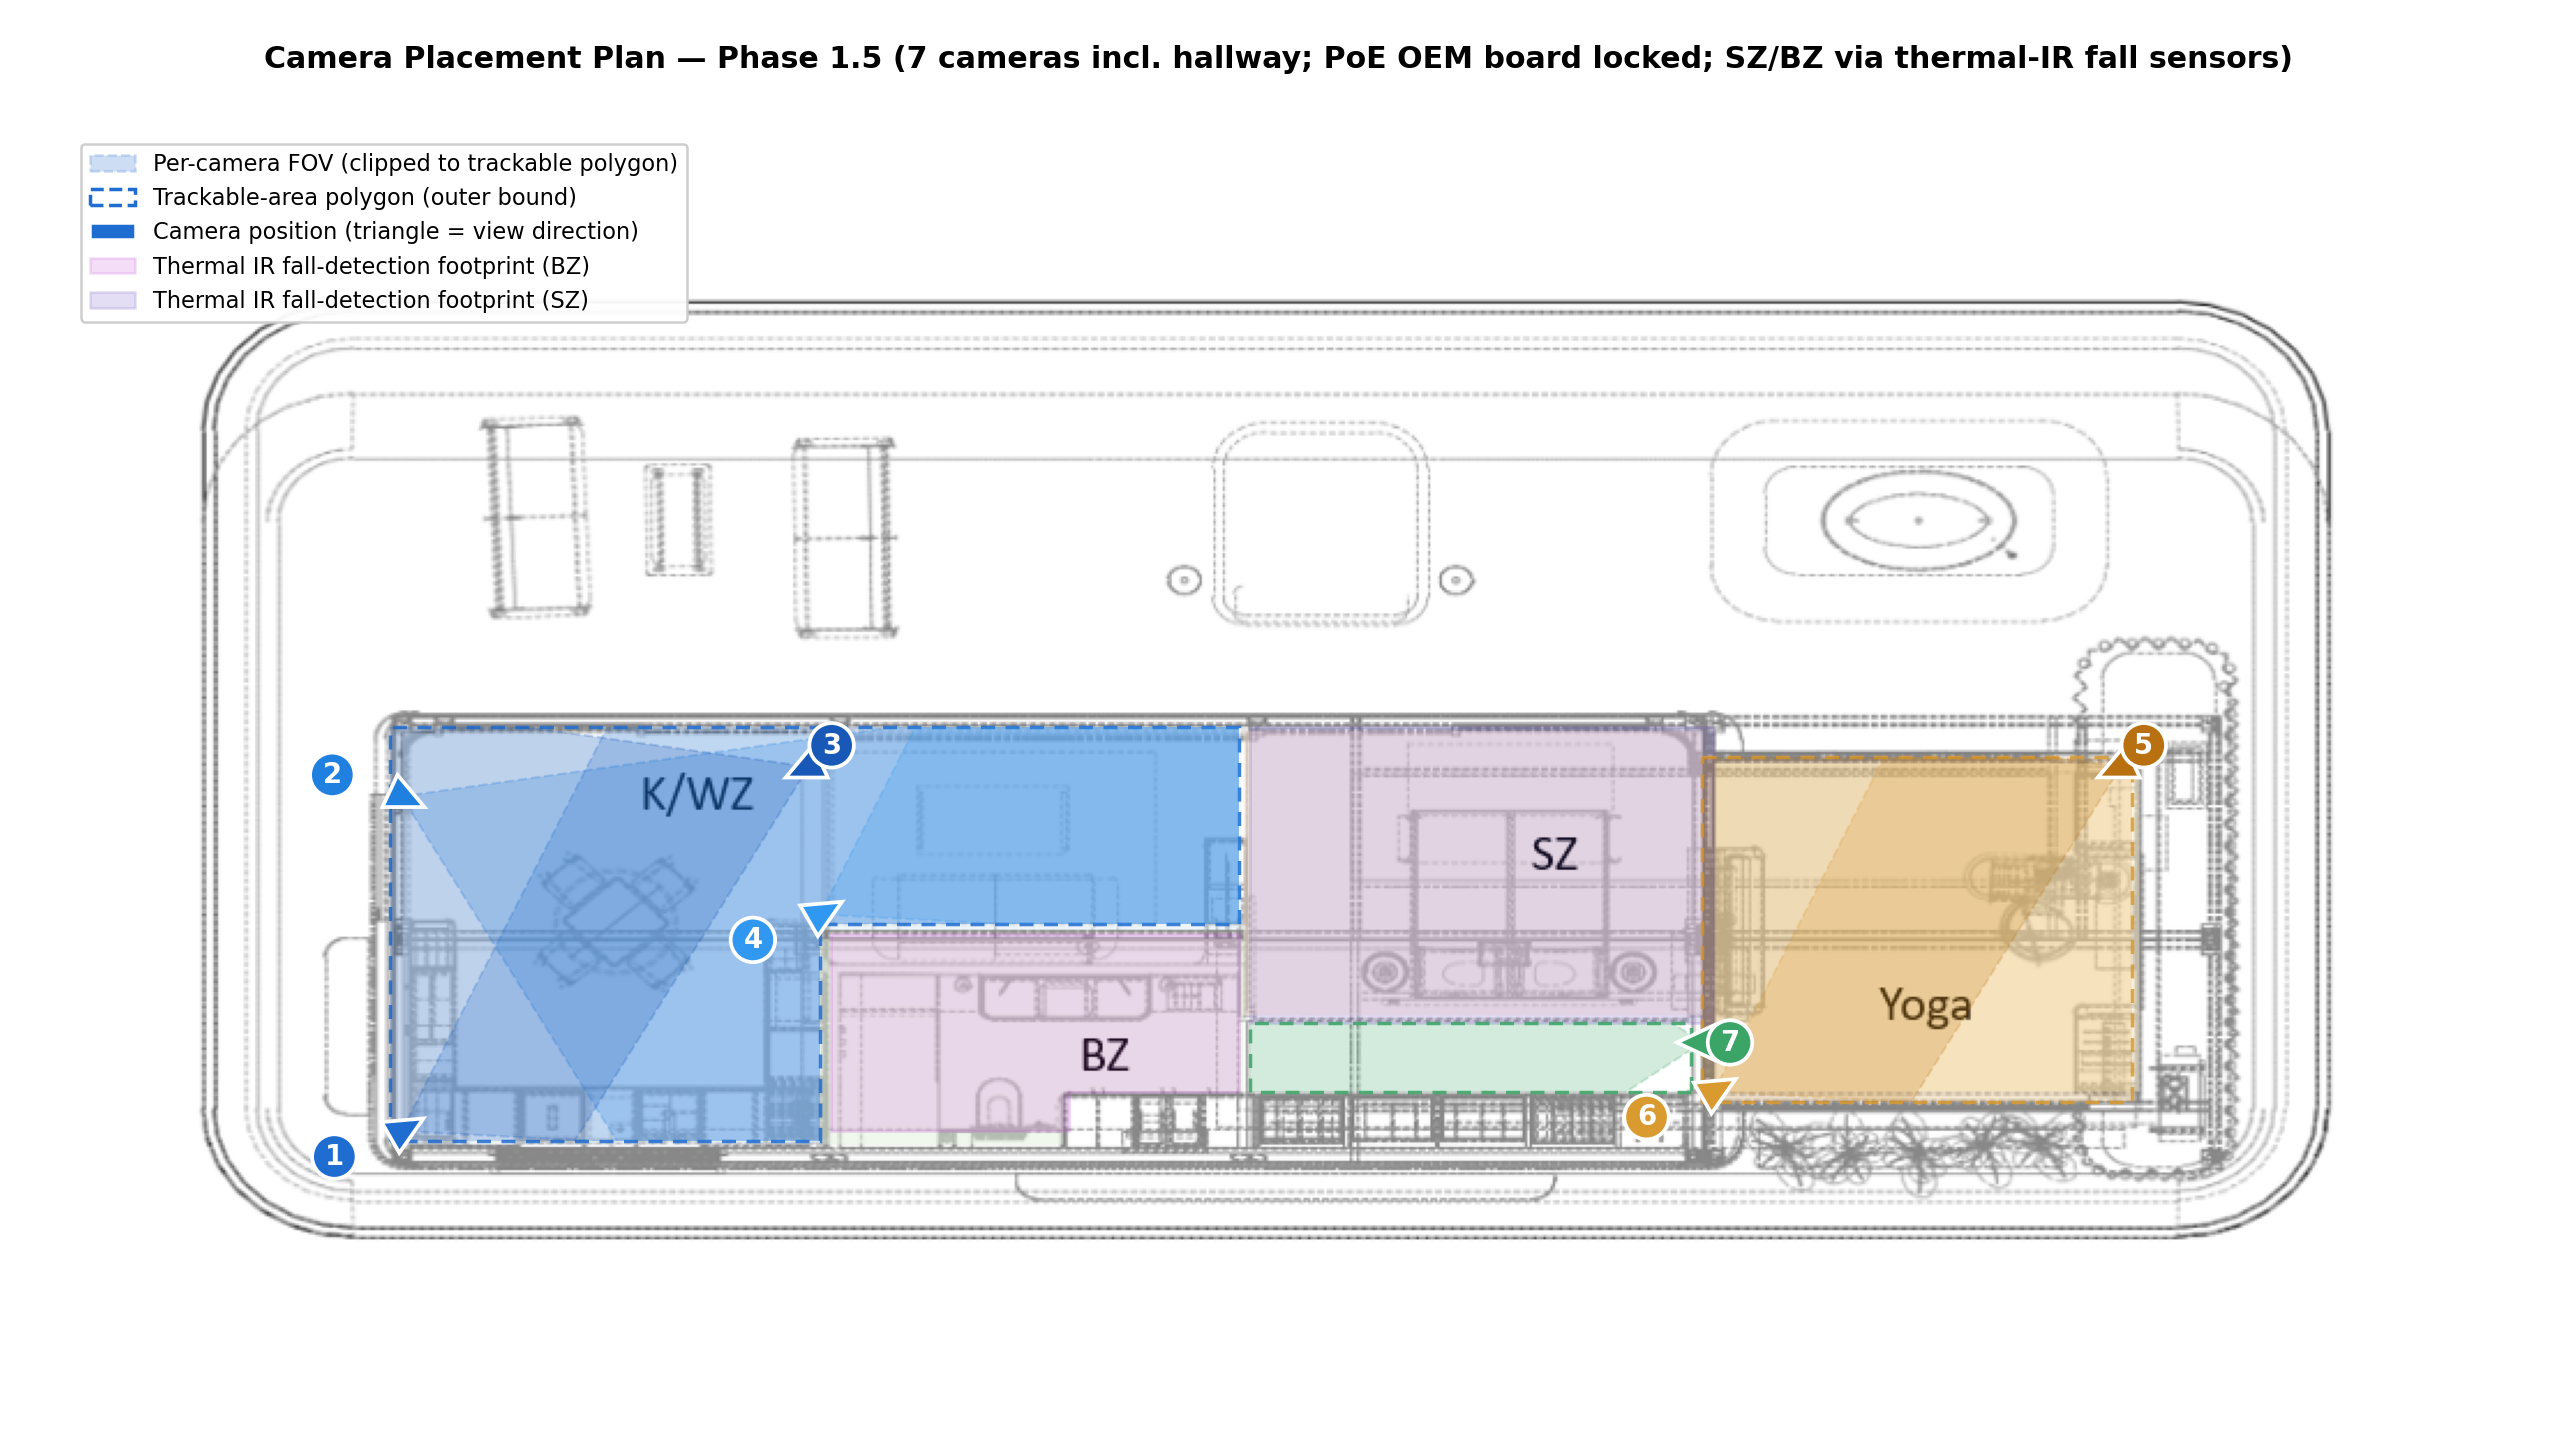
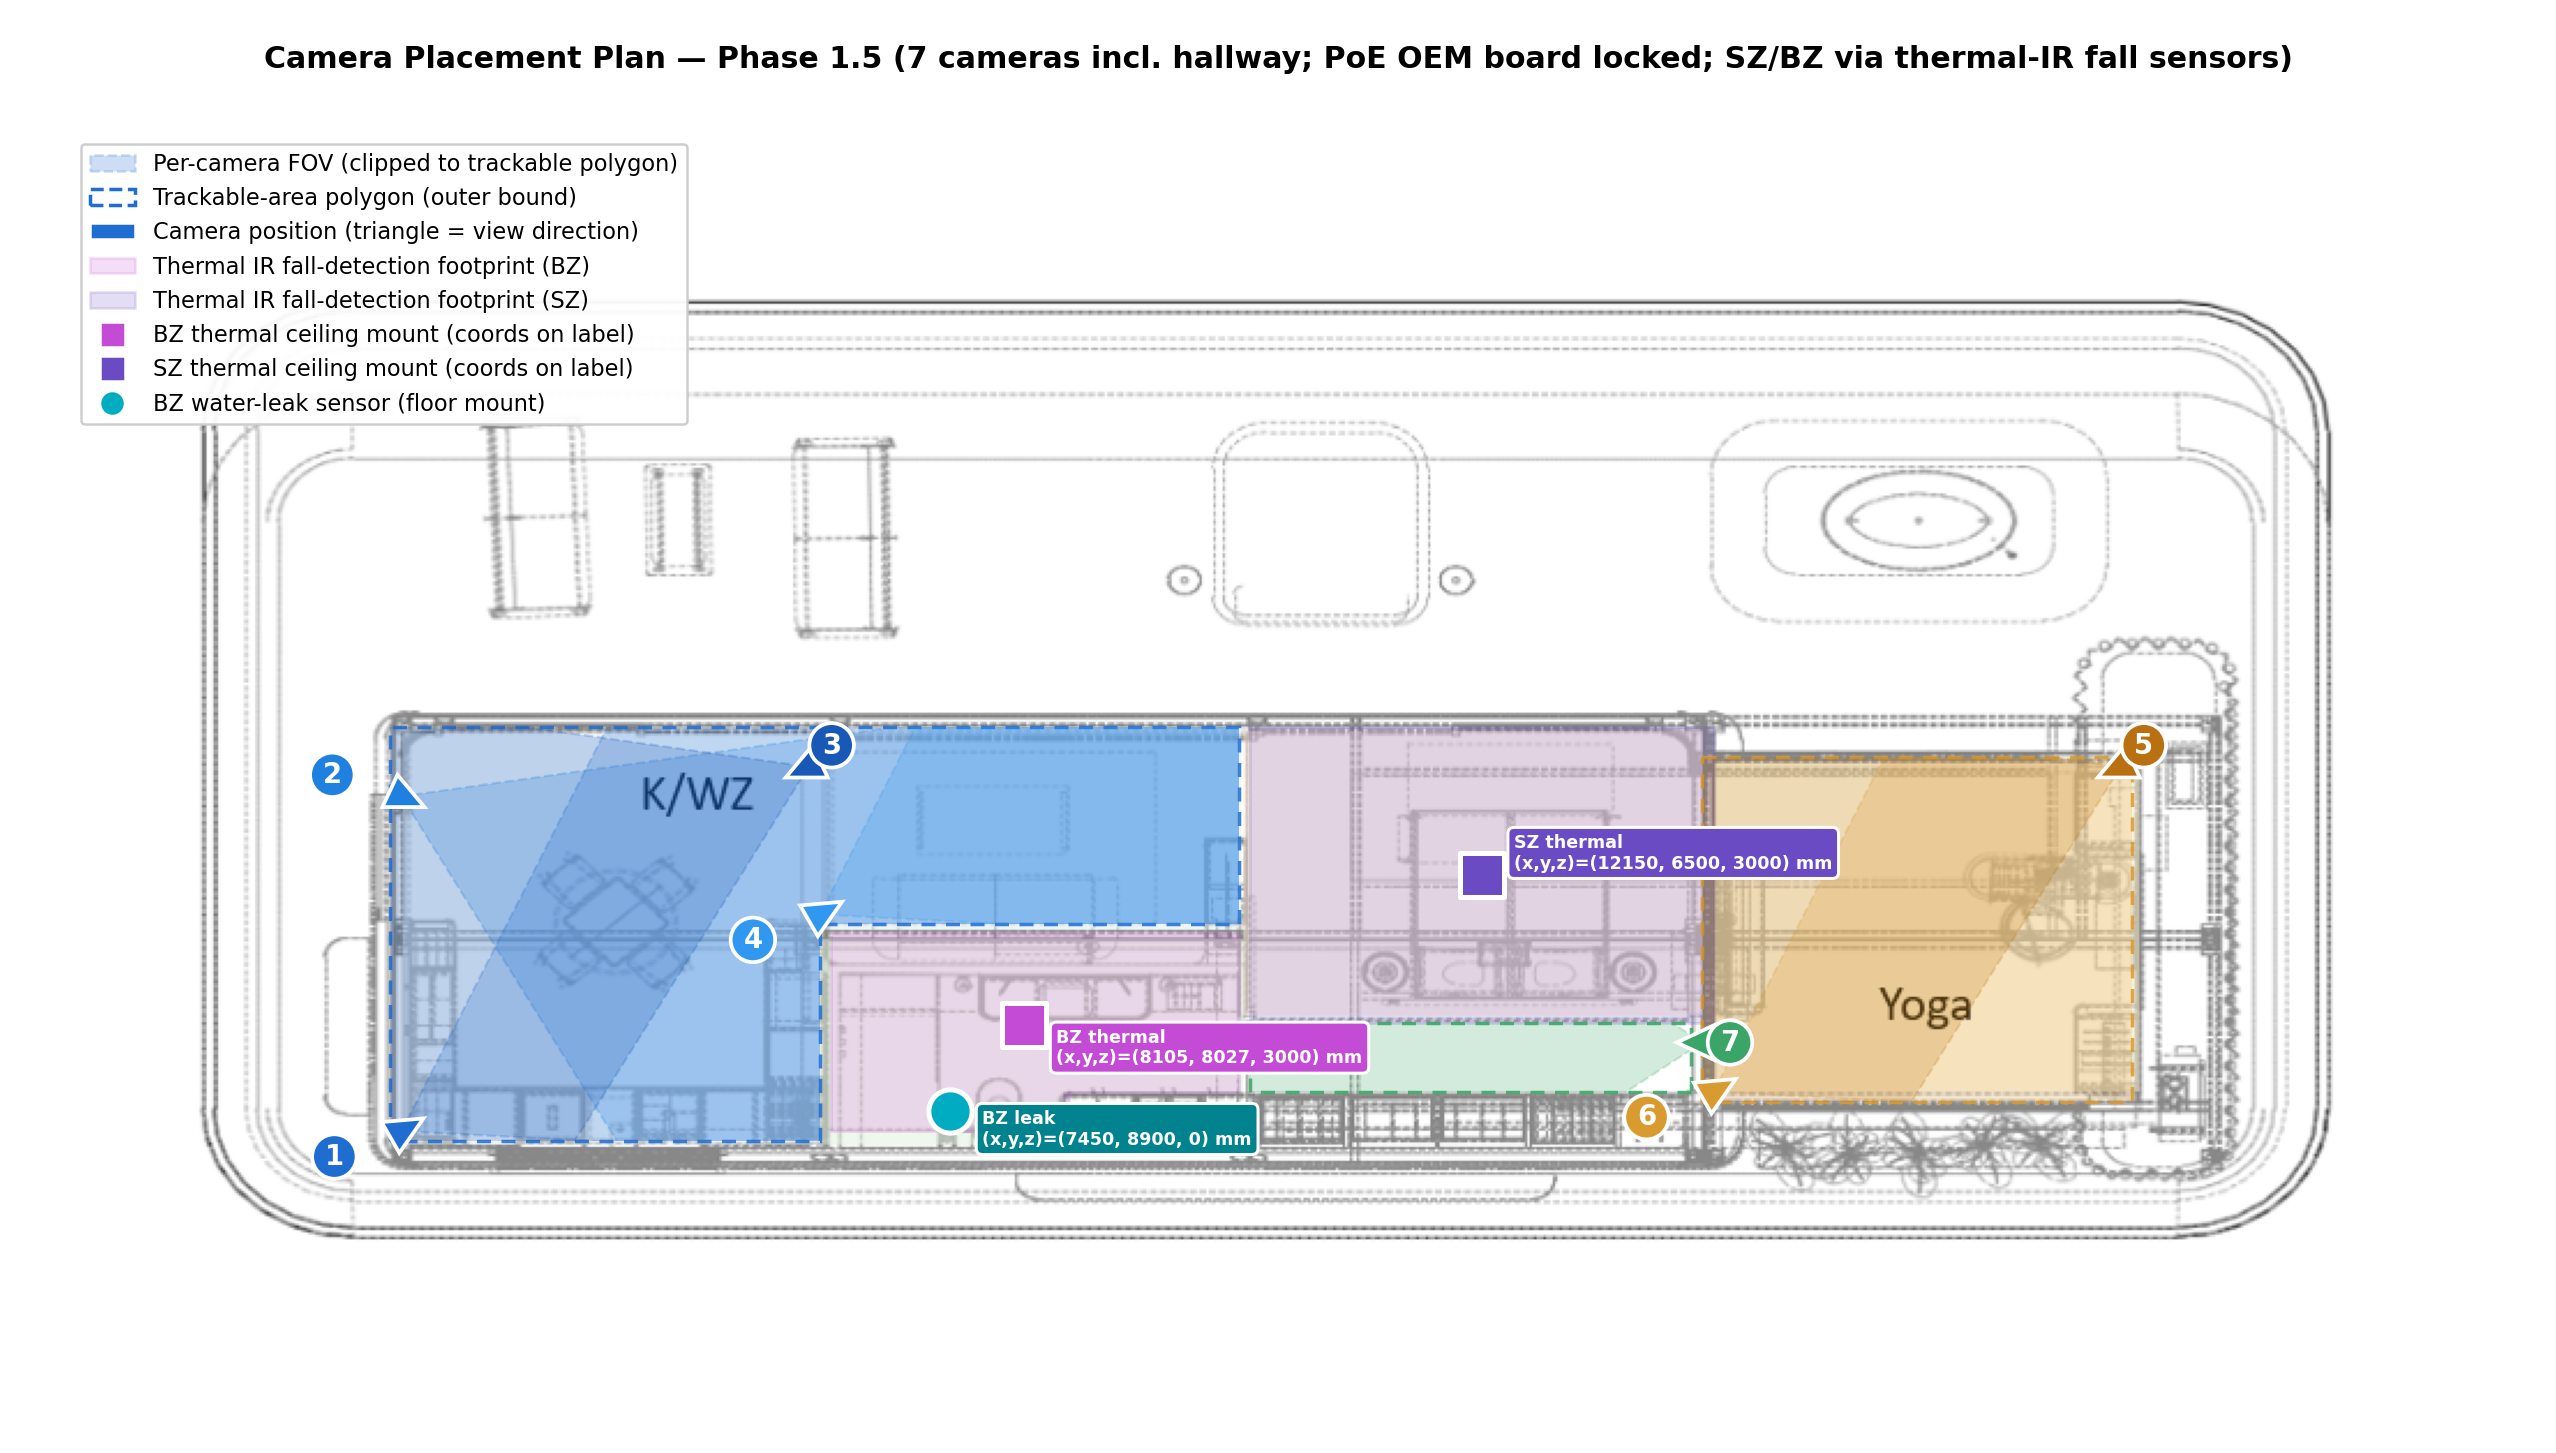
implement fall detection

Changed region(s): [[0.34, 0.6813, 0.5563, 0.8052], [0.0309, 0.2168, 0.2782, 0.3097], [0.5563, 0.5575, 0.7418, 0.6194]]

diff --git a/generate_camera_plan.py b/generate_camera_plan.py
@@ -60,8 +60,12 @@ USAGE
     python3 generate_camera_plan.py
 
 Outputs (written to ./output/):
-    camera_placement_plan.png   — annotated floor plan image
-    cameras_config.json         — machine-readable camera config
+    camera_placement_plan.png   — annotated floor plan image (cameras,
+                                  thermal BZ/SZ footprints, and privacy
+                                  hardware mount markers with mm coords)
+    cameras_config.json         — machine-readable camera config +
+                                  privacy_thermal_zones_mm,
+                                  privacy_hardware_mounts_mm (SZ/BZ)
 
 To adjust placements, edit the CAMERAS list below and re-run.
 
@@ -74,6 +78,7 @@ The script expects ./floor_plan.png to be present alongside it.
 
 from pathlib import Path
 import json
+
 import numpy as np
 from PIL import Image
 import matplotlib.pyplot as plt
@@ -125,6 +130,9 @@ INTERIOR_X_MAX_MM = 17900
 INTERIOR_Y_MIN_MM =  2500
 # Must cover the tallest client-defined thermal footprints (BZ extends to y=9100).
 INTERIOR_Y_MAX_MM =  9100
+
+# Ceiling height above floor (+z); cameras + thermal privacy grids mount here.
+CEILING_H_MM = 3000
 
 # Per-room interior bounds (left-to-right), matching the colour
 # overlays the client drew on the updated floor_plan.png.
@@ -223,6 +231,59 @@ PRIVACY_THERMAL_ZONES_MM: dict[str, list[tuple[int, int]]] = {
 
 SZ_REST_ZONE_POLYGON_MM: list[tuple[int, int]] | None = None
 
+
+def _polygon_centroid_mm(vertices: list[tuple[int, int]]) -> tuple[float, float]:
+    """Closed-polygon centroid in mm (matches thermal footprint polygons)."""
+    xa = np.array([v[0] for v in vertices], dtype=np.float64)
+    ya = np.array([v[1] for v in vertices], dtype=np.float64)
+    xn = np.roll(xa, -1)
+    yn = np.roll(ya, -1)
+    cross = xa * yn - xn * ya
+    area = float(np.sum(cross) * 0.5)
+    if abs(area) < 1e-9:
+        return float(np.mean(xa)), float(np.mean(ya))
+    cx = float(np.sum((xa + xn) * cross) / (6.0 * area))
+    cy = float(np.sum((ya + yn) * cross) / (6.0 * area))
+    return cx, cy
+
+
+def _rnd_mm(v: float) -> int:
+    return int(round(v))
+
+
+# ----------------------------------------------------------------------
+# Privacy hardware: definitive mount coordinates (generated PNG + JSON).
+# Thermal grids: CEILING-mounted, (x,y) = polygon centroid in plan view;
+# z = CEILING_H_MM. Re-derived whenever PRIVACY_THERMAL_ZONES_MM changes.
+# BZ water-leak sensor: floor, z = 0; edit after site survey (keep inside
+# the BZ thermal polygon, typically shower egress / drainage path).
+# ----------------------------------------------------------------------
+_sz_cx, _sz_cy = _polygon_centroid_mm(PRIVACY_THERMAL_ZONES_MM["SZ"])
+_bz_cx, _bz_cy = _polygon_centroid_mm(PRIVACY_THERMAL_ZONES_MM["BZ"])
+PRIVACY_THERMAL_CEILING_MOUNT_MM: dict[str, dict[str, int]] = {
+    "SZ": {
+        "x_mm": _rnd_mm(_sz_cx),
+        "y_mm": _rnd_mm(_sz_cy),
+        "z_mm": CEILING_H_MM,
+    },
+    "BZ": {
+        "x_mm": _rnd_mm(_bz_cx),
+        "y_mm": _rnd_mm(_bz_cy),
+        "z_mm": CEILING_H_MM,
+    },
+}
+
+BZ_WATER_LEAK_FLOOR_MOUNT_MM = {
+    "x_mm": 7450,
+    "y_mm": 8900,
+    "z_mm": 0,
+    "placement_note": (
+        "Floor mount inside BZ thermal zone (L-tab). Adjust after site "
+        "survey — target shower curb / wet drain path; used as secondary "
+        "channel with ceiling thermal."
+    ),
+}
+
 # Tunables mirrored into output/cameras_config.json ``thermal_fall_detection``.
 THERMAL_FALL_DETECTION_EXPORT = {
     "rapid_transition_max_s":        1.0,
@@ -248,9 +309,6 @@ GLASS_WALLS = (
     "north wall (K/WZ + BZ + SZ + Yoga continuous glazing)",
     "south sliding doors (K/WZ + SZ + Yoga)",
 )
-
-# Ceiling height, default mounting height for ceiling-mounted cameras.
-CEILING_H_MM = 3000
 
 # Pixel-per-millimetre scale (used to project mm coords onto the image).
 # Note: the image's vertical pixel scale is slightly compressed vs.
@@ -487,6 +545,72 @@ def draw_privacy_thermal_zones(ax) -> None:
                     linewidth=1.2, linestyle="-", zorder=6))
 
 
+def draw_privacy_hardware_mounts(ax) -> None:
+    """Mark thermal ceiling mounts + BZ floor water-leak (plan view xy)."""
+    for room_code, mt in PRIVACY_THERMAL_CEILING_MOUNT_MM.items():
+        px, py = mm_to_px(mt["x_mm"], mt["y_mm"])
+        face = PRIVACY_THERMAL_FACE[room_code]
+        ax.scatter(
+            [px], [py],
+            s=320,
+            marker="s",
+            c=face,
+            edgecolors="white",
+            linewidths=2.0,
+            zorder=16,
+            clip_on=False,
+        )
+        bx = px + 14
+        by = py - (18 if room_code == "SZ" else -18)
+        ax.text(
+            bx,
+            by,
+            f"{room_code} thermal\n(x,y,z)=({mt['x_mm']}, {mt['y_mm']}, {mt['z_mm']}) mm",
+            fontsize=7,
+            fontweight="bold",
+            color="white",
+            ha="left",
+            va="top" if room_code == "SZ" else "bottom",
+            bbox=dict(
+                boxstyle="round,pad=0.35",
+                facecolor=face,
+                edgecolor="white",
+                linewidth=1.2),
+            zorder=17,
+            clip_on=False,
+        )
+
+    wl = BZ_WATER_LEAK_FLOOR_MOUNT_MM
+    px_w, py_w = mm_to_px(wl["x_mm"], wl["y_mm"])
+    ax.scatter(
+        [px_w], [py_w],
+        s=300,
+        marker="o",
+        c="#00acc1",
+        edgecolors="white",
+        linewidths=2.0,
+        zorder=16,
+        clip_on=False,
+    )
+    ax.text(
+        px_w + 14,
+        py_w + 16,
+        f"BZ leak\n(x,y,z)=({wl['x_mm']}, {wl['y_mm']}, {wl['z_mm']}) mm",
+        fontsize=7,
+        fontweight="bold",
+        color="white",
+        ha="left",
+        va="bottom",
+        bbox=dict(
+            boxstyle="round,pad=0.35",
+            facecolor="#00838f",
+            edgecolor="white",
+            linewidth=1.2),
+        zorder=17,
+        clip_on=False,
+    )
+
+
 def trackable_clip_path(room: str) -> MplPath:
     """Build a matplotlib clip Path from a room's TRACKABLE_AREAS_MM
     polygon (mm vertices projected to image pixel coords). Used to
@@ -607,6 +731,7 @@ def render_floor_plan() -> None:
         draw_trackable_outline(ax, room)
 
     draw_privacy_thermal_zones(ax)
+    draw_privacy_hardware_mounts(ax)
 
     room_clips = {room: trackable_clip_path(room)
                   for room in TRACKABLE_AREAS_MM}
@@ -628,6 +753,15 @@ def render_floor_plan() -> None:
         mpatches.Patch(facecolor="#6b4bc4", alpha=PRIVACY_THERMAL_ALPHA,
                        edgecolor="#6b4bc4",
                        label="Thermal IR fall-detection footprint (SZ)"),
+        plt.Line2D([0], [0], marker="s", linestyle="none", color="#c44bd6",
+                   markeredgecolor="white", markersize=10,
+                   label="BZ thermal ceiling mount (coords on label)"),
+        plt.Line2D([0], [0], marker="s", linestyle="none", color="#6b4bc4",
+                   markeredgecolor="white", markersize=10,
+                   label="SZ thermal ceiling mount (coords on label)"),
+        plt.Line2D([0], [0], marker="o", linestyle="none", color="#00acc1",
+                   markeredgecolor="white", markersize=10,
+                   label="BZ water-leak sensor (floor mount)"),
     ]
     ax.legend(handles=legend_elements, loc="upper left",
               bbox_to_anchor=(0.01, 0.99), fontsize=9, framealpha=0.95)
@@ -687,8 +821,53 @@ def export_config() -> None:
                     [list(pt) for pt in PRIVACY_THERMAL_ZONES_MM[room]]
                     if room in PRIVACY_THERMAL_ZONES_MM else None
                 ),
+                "privacy_hardware_mounts_mm": (
+                    {
+                        "thermal_ceiling_mount_mm": (
+                            PRIVACY_THERMAL_CEILING_MOUNT_MM["SZ"]
+                        ),
+                        "mount_note": (
+                            "Ceiling-mounted AMG8833/MLX class grid; (x,y) is "
+                            "centroid of privacy_thermal_polygon_mm; "
+                            "z = ceiling_height_mm."
+                        ),
+                    }
+                    if room == "SZ"
+                    else {
+                        "thermal_ceiling_mount_mm": (
+                            PRIVACY_THERMAL_CEILING_MOUNT_MM["BZ"]
+                        ),
+                        "water_leak_floor_mount_mm": (
+                            BZ_WATER_LEAK_FLOOR_MOUNT_MM
+                        ),
+                        "mount_note": (
+                            "Thermal: ceiling as SZ. Water leak: floor device "
+                            "(Zigbee); adjust xy after site survey inside "
+                            "privacy_thermal_polygon_mm."
+                        ),
+                    }
+                    if room == "BZ"
+                    else None
+                ),
             }
             for room, b in ROOM_BOUNDS_MM.items()
+        },
+        "privacy_hardware_mounts_mm": {
+            "coordinate_frame": (
+                "floor-plan envelope mm: origin NW, +x east, +y south; "
+                "thermal z = ceiling; leak z = floor"
+            ),
+            "SZ": {
+                "thermal_ceiling_mount_mm":
+                    PRIVACY_THERMAL_CEILING_MOUNT_MM["SZ"],
+            },
+            "BZ": {
+                "thermal_ceiling_mount_mm":
+                    PRIVACY_THERMAL_CEILING_MOUNT_MM["BZ"],
+                "water_leak_floor_mount_mm": (
+                    BZ_WATER_LEAK_FLOOR_MOUNT_MM
+                ),
+            },
         },
         "privacy_thermal_zones_mm": {
             k: [[x, y] for x, y in poly]
